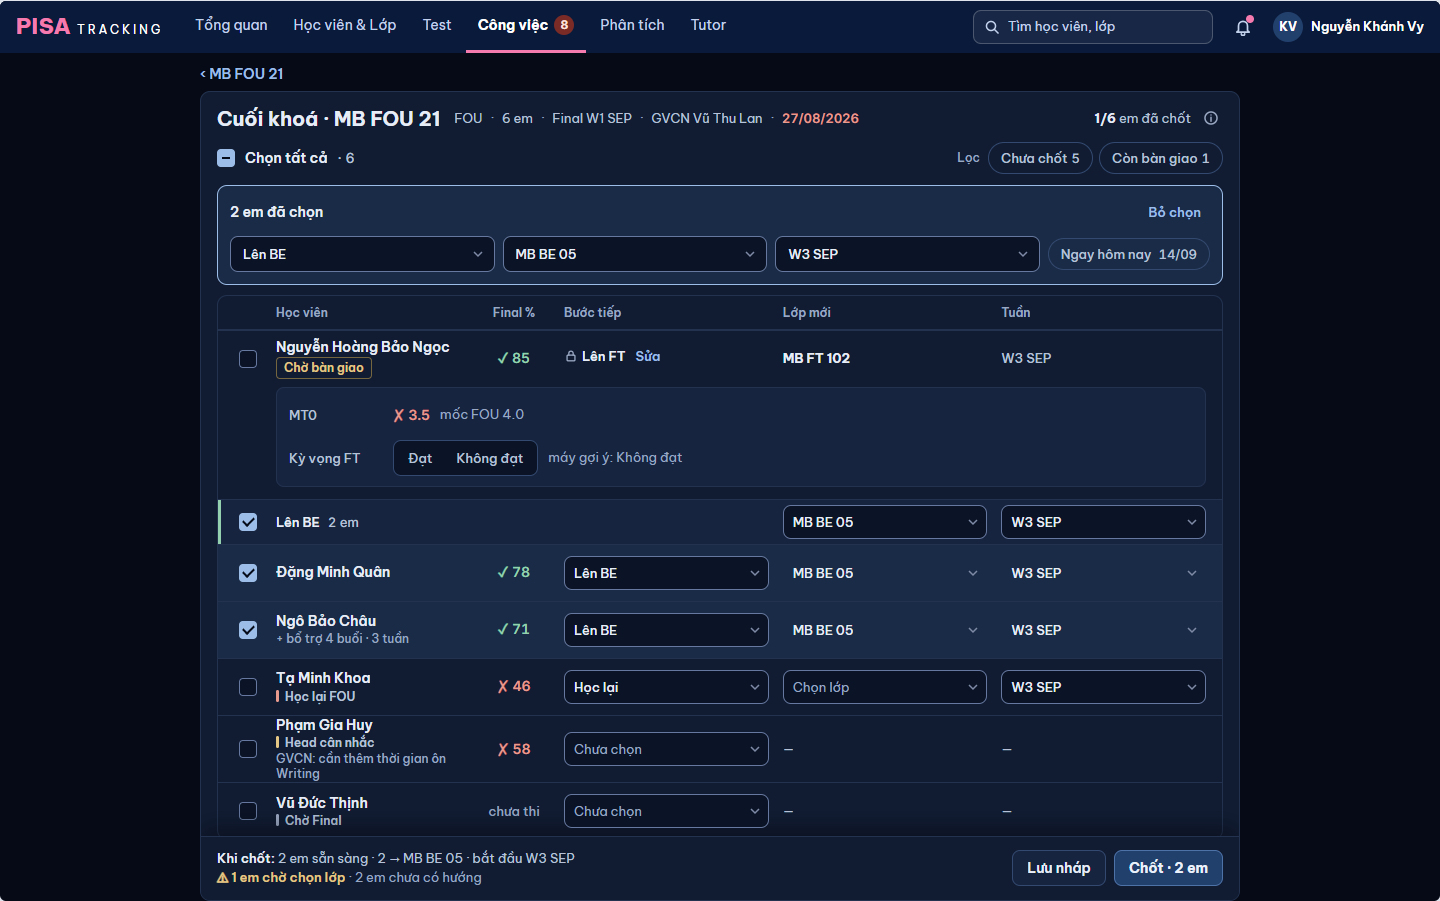
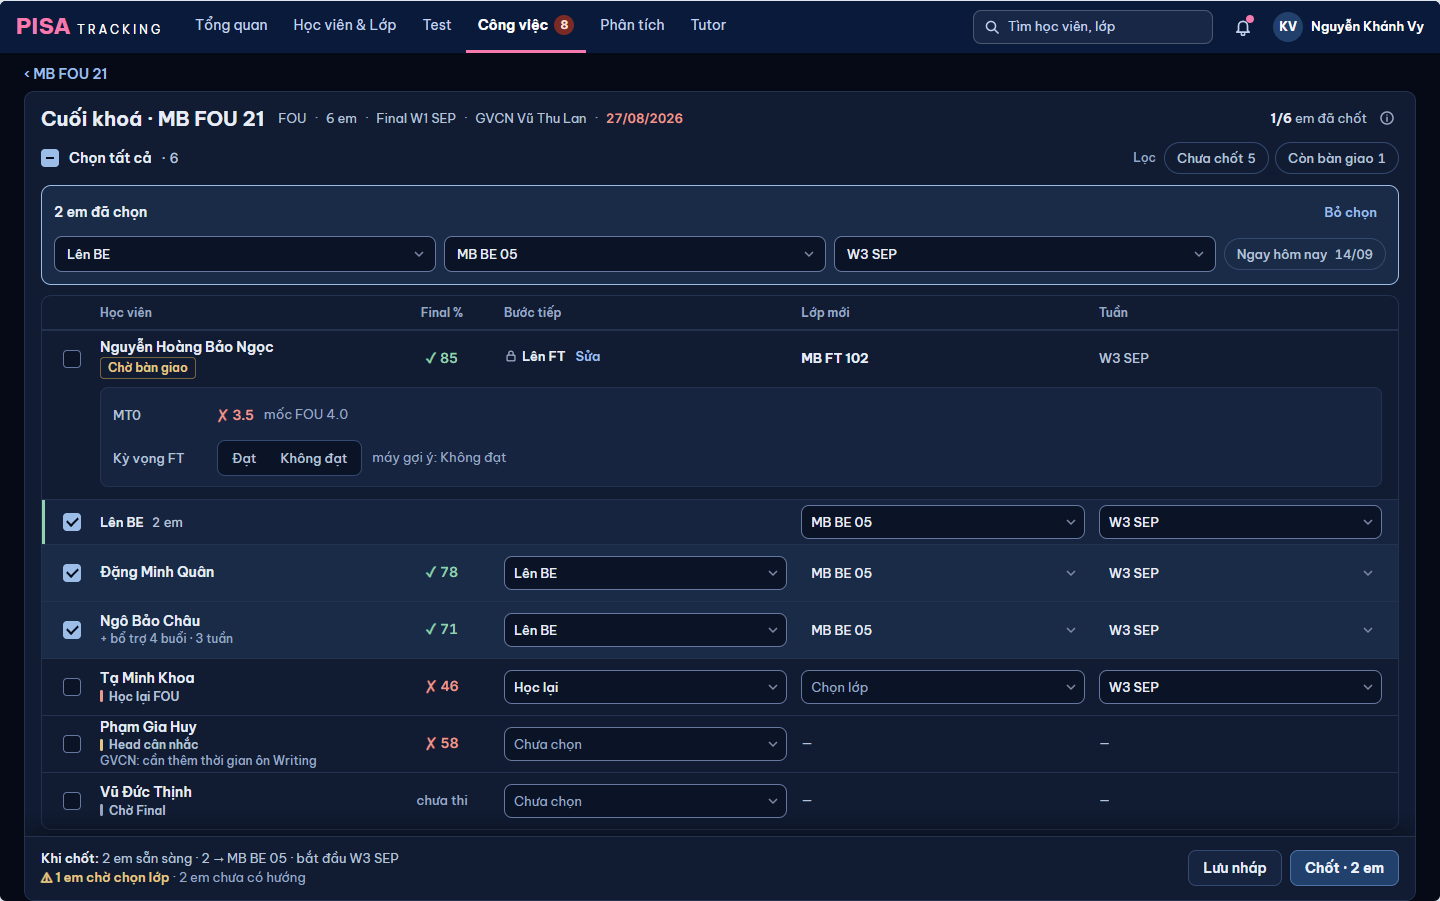
mockup v25: trang Cuối khoá khung rộng hết, chia 5 cột cho hết bề ngang

diff --git a/thiet-ke/v25/chot-lo-trinh-panel.html b/thiet-ke/v25/chot-lo-trinh-panel.html
@@ -77,7 +77,7 @@
 .pan { --cot:6px 28px minmax(176px,1fr) 68px repeat(3,112px) 6px; --kc:8px; }
 .pan .c-fin { grid-column:4; } .pan .c-bt { grid-column:5; } .pan .c-lop { grid-column:6; } .pan .c-tuan { grid-column:7; }
 .pan .c-bl { grid-column:3 / 6; } .pan .c-dt { grid-column:3 / 8; }
-.pan.wide { --cot:2px 28px 188px 72px repeat(3,minmax(120px,1fr)) 2px; --kc:14px; }
+.pan.wide { --cot:2px 28px minmax(260px,280px) 96px repeat(3,minmax(120px,1fr)) 2px; --kc:14px; }
 .ck-lg .c-fin, .ck-lg .c-mt0, .ck-lg .c-kv { justify-self:center; text-align:center; }
 .ck-lg .c-bt, .ck-lg .c-lop, .ck-lg .c-tuan { min-width:0; position:relative; }
 .nm { font:600 var(--c14)/1.3 var(--phong); color:var(--text); white-space:nowrap; }
@@ -239,7 +239,7 @@
 .tg-bar .loc .lb { color:var(--text-faint); font-size:var(--c12); }
 .tg-chan { flex:none; display:flex; align-items:center; gap:16px; padding:10px 16px; min-height:64px; border-top:1px solid var(--line); background:var(--surface); box-shadow:0 -8px 24px var(--bong); }
 .tg-chan .phai { margin-left:auto; display:flex; gap:8px; }
-.tg-wrap { width:100%; max-width:1040px; margin:0 auto; flex:1; min-height:0; display:flex; flex-direction:column; }
+.tg-wrap { width:100%; flex:1; min-height:0; display:flex; flex-direction:column; }
 .tg-than { padding:0 16px 16px; display:grid; gap:10px; align-content:start; flex:1; min-height:0; overflow:hidden; }
 .giu { display:block; padding:8px 12px; border:1px solid var(--line); border-radius:8px; font-size:var(--c13); line-height:1.45; color:var(--text-dim); }
 .giu b { color:var(--text); font-weight:600; }
@@ -287,7 +287,7 @@
     <p class="ghi">Chip "Chờ bàn giao" và "+ Mở lớp mới…" thay nội dung khe 720 (đã có mẫu: Bàn giao mở thay panel Lộ trình ở Tổng quan, nút "‹ Lộ trình"). Đầu: ‹ Quay lại · tên màn; dải "đang giữ nguyên" nói rõ phần đang sửa ở Chốt lộ trình còn đó. Mở lớp xong → quay về Chốt lộ trình, lớp điền sẵn.</p>
     <div class="hang-khung" data-khu="C"></div></section>
   <section class="khu" id="b"><h2>B · Trang Cuối khoá (giữ cho lối vào từ hồ sơ lớp / Tổng quan) — cột cân lại</h2>
-    <p class="ghi">Cùng bảng, cùng thao tác; chỉ chia lại cột theo NH9: tên 2 phần · Final, MT0, Kỳ vọng FT mỗi cột 1 phần, căn giữa · Bước tiếp, Lớp, Tuần mỗi ô 1,5 phần, Tuần sát lề phải. Hết cột tên rộng nuốt cả bề ngang.</p>
+    <p class="ghi">Cùng bảng với panel (MT0 + Kỳ vọng FT gập vào hộp dưới dòng), khung rộng hết như các trang khác: tên 260–280 · Final 96 căn giữa · ba ô nhập chia đều phần còn lại · ô cuối sát lề 16.</p>
     <div class="hang-khung" data-khu="B"></div></section>
 </div>
 <script>

diff --git a/thiet-ke/v25/chot-lo-trinh-panel-ghi-chu.md b/thiet-ke/v25/chot-lo-trinh-panel-ghi-chu.md
@@ -29,7 +29,7 @@ Chưa có code. Chờ chủ SP duyệt (CLAUDE.md: màn / luồng đổi phải 
 | C1 · 1440 | Bàn giao **thay trong khe 720** (chip Chờ bàn giao của Ngọc): ‹ Quay lại, dải "đang giữ nguyên", phiếu tự điền + mỗi môn một câu + Nhận xét chung → Xác nhận bàn giao |
 | C2 · 1440 | Mở lớp mới **thay trong khe 720** ("+ Mở lớp mới…"): chương trình · chi nhánh · số lớp · tuần khai giảng · phân công → Mở lớp, lớp điền sẵn vào ô Lớp của 2 em |
 | C3 · C4 · 375 | Hai màn trên toàn màn |
-| B1–B3 | Trang Cuối khoá **cùng bảng với panel** (MT0 + Kỳ vọng FT gập vào hộp dưới dòng), khung tối đa 1100 px canh giữa: 1440 · 1280 · 375 |
+| B1–B3 | Trang Cuối khoá **cùng bảng với panel** (MT0 + Kỳ vọng FT gập vào hộp dưới dòng), khung rộng hết: 1440 · 1280 · 375 |
 
 ## 3. Panel: thiết kế
 
@@ -47,18 +47,17 @@ Chưa có code. Chờ chủ SP duyệt (CLAUDE.md: màn / luồng đổi phải 
 
 ## 4. Trang Cuối khoá: cùng bảng với panel, cân cột (B)
 
-PTA 25/11: gập MT0 + Kỳ vọng FT vào hộp dưới dòng như panel, bỏ hai cột gần như trống. Trang và panel dùng MỘT lưới (cùng subgrid, cùng hộp dưới dòng, cùng thanh công cụ + thanh Áp); trang chỉ rộng hơn. Bảng chỉ còn 5 cột nên **thu khung** (NH9 "bảng ít cột thì thu khung bảng"): khung trang tối đa 1100 px, canh giữa.
+PTA 25/11: gập MT0 + Kỳ vọng FT vào hộp dưới dòng như panel, bỏ hai cột gần như trống; **khung trang rộng hết như các trang khác** (không thu khung — chủ SP đã chê "dồn cột rồi thừa khoảng trống"). Trang và panel dùng MỘT lưới (cùng subgrid, hộp dưới dòng, thanh công cụ + thanh Áp); trang chỉ rộng hơn, nên chia 5 cột cho hết bề ngang.
 
 | | Trước (`CuoiKhoaLop.tsx` `LUOI`) | Sau |
 |---|---|---|
-| Cột | 28 · tên `minmax(260,1fr)` · 92 · 92 · 92 · 148 · 148 · 148 (8 cột, MT0 + Kỳ vọng 5/6 ô "—") | 28 · tên · Final % · Bước tiếp · Lớp · Tuần (5 cột) |
-| Tên ở 1440 (thẻ 1392) | ≈ 514 px, nuốt chỗ thừa | **210 px** (chữ dài nhất ≈ 174: thừa 36) |
-| Final | 92 | 88 (nội dung 52; số căn giữa) |
-| Ba ô nhập | 148, dính trái | **212 bằng nhau** (máy đo) |
-| Ô cuối | sát lề 16 | sát lề 16 (đo 17 gồm viền) |
-| 1280 | tên ≈ 354 | như 1440 (khung 1100 canh giữa; thẻ 1232 không còn rộng hơn) |
+| Cột | 28 · tên `minmax(260,1fr)` · 92 · 92 · 92 · 148 · 148 · 148 (8 cột, MT0 + Kỳ vọng 5/6 ô "—") | 28 · tên `minmax(260,280)` · Final 96 · Bước tiếp · Lớp · Tuần (5 cột) |
+| Tên ở 1440 (thẻ 1392) | ≈ 514 px, nuốt chỗ thừa | **280 px** (chỗ thừa đi vào hộp dưới dòng và dòng phụ: nhãn nhóm, nhận xét GVCN, chip bàn giao) |
+| Final | 92, dính trái | 96, số căn giữa |
+| Ba ô nhập | 148 | chia đều phần còn lại (số đo ở dưới) |
+| Ô cuối | sát lề 16 | sát lề 16 |
 
-Số đo (Playwright, cùng phép đo như panel): track 2 · 28 · 210 · 88 · 212 · 212 · 212 · 2; **không cột nào thừa > 40 px** so với nội dung; tâm cột Final lệch 0 px giữa các dòng. 375: thẻ như panel.
+Số đo (Playwright, cùng phép đo như panel): **1440** track 2 · 28 · 280 · 96 · **283,3 × 3** · 2; **1280** track 2 · 28 · 280 · 96 · **230 × 3** · 2; ba ô nhập bằng nhau ở cả hai bề rộng, tâm cột Final lệch 0 px giữa các dòng, ô cuối cách mép 16 px (đo 17 gồm viền); máy dò chữ tràn / lòi khung 0 lỗi. Tên 280 rộng hơn chữ dài nhất (≈ 174) theo chỉ định PTA (260–300): phần thừa nằm trong ô tên có nhãn nhóm, nhận xét GVCN, chip bàn giao. 375: thẻ như panel.
 
 ## 5. Bỏ / gộp — và vì sao
 
@@ -104,7 +103,7 @@ Không bỏ thao tác nào. Mọi thao tác TRƯỚC → SAU:
 - **Hoàn tác, không hộp hỏi** (theo code, bỏ N22 ③ cũ) — ghi ở mục 3.
 - Panel **chỉ cho QL**; vai khác (GVCN nhận xét, vai chỉ đọc) dùng trang.
 - ⋯ có "Mở ở trang riêng ›" + "Gia hạn".
-- Trang Cuối khoá gập MT0 + Kỳ vọng FT như panel, bỏ hai cột trống (mục 4).
+- Trang Cuối khoá gập MT0 + Kỳ vọng FT như panel, bỏ hai cột trống, **khung rộng hết** (không thu 1040 — PTA 25/11, mục 4).
 
 Còn mở:
 
@@ -112,12 +111,11 @@ Còn mở:
 - **[XM6] Nhóm "Chờ Final"** chốt trước Final được (N22), mockup hiện nhãn "Chờ Final" nhỏ dưới tên, không dải — giữ luật 11/11.
 - **[XM7]** Tên em, nhãn, hạn trong mockup là minh hoạ; khi code lấy đúng trường đang có.
 - **[XM9] A5:** mẫu số giữ "3/6 đã chốt" (2 em chuyển ngay + Ngọc); nếu máy chủ chỉ đếm em còn ở lớp thì thành "1/4".
-- **[XM10] Khung trang 1100 px canh giữa** ở 1440 / 1280 (hai bên trống ~ 170 / 70 px) — hệ quả của "bảng ít cột thì thu khung". Muốn trang rộng hết khung thì ô nhập và cột tên sẽ lại giãn.
 - **[XM11] C1 / C2 là bản rút gọn** của Bàn giao (`BanGiaoPanel`, 3 dạng theo người mở) và Mở lớp (`ClassCreatePanel`): chỉ vẽ khuôn thay-trong-khe và nút quay lại; ruột từng màn giữ nguyên như web.
 
 ## 7. Skill đã chạy
 
-- `impeccable`: `context` → `shape` (khung dưới) → `critique` (một lượt rà độc lập bằng ảnh, không nhận kết luận của người vẽ): **panel 29/40, trang 26/40, không P0**; P1 đã sửa: nhóm Lên BE lẫn em đã chốt · ba tên cho "Ngay hôm nay" · "sẵn sàng" tính khác nhau giữa B1 / B2 · chip lọc mất ở 375 · vùng bấm 375 · Kỳ vọng FT lặp ba chỗ ở trang · P2 rẻ: chip lọc không sáng khi chưa lọc, ✓ ở chip đang chọn, em chưa hướng ghi "—", nhận xét GVCN 2 dòng, A6 bớt lặp "6/6" + lối "Xem lộ trình đã chốt ›", nút Ngay hôm nay đủ tương phản. Sau ba lượt (có PTA 25/11 gập cột trang + hai màn C): lượt 2 panel 30 · màn C 28 · trang 28, P1 đã sửa (vùng bấm 375 đo ≥ 44, số đếm lỗi A4 một kiểu, dải "đang giữ nguyên" ở 375, cột tên trang). **Lượt 3 (cuối): panel 29 · màn C 30 · trang 29, 0 P0 / P1** — chưa chạm 35; P2 còn lại: hộp MT0 / Kỳ vọng rộng hơn nội dung ở trang, tấm Áp 375 chiếm ~45 % màn, "Chọn tất cả" vẫn chọn em đã chốt (cố ý: em Lên FT còn Kỳ vọng chờ), thuật ngữ "Reset bậc vi phạm" / KCK / "Điền thay" lấy đúng chữ web đang dùng.
+- `impeccable`: `context` → `shape` (khung dưới) → `critique` (một lượt rà độc lập bằng ảnh, không nhận kết luận của người vẽ): **panel 29/40, trang 26/40, không P0**; P1 đã sửa: nhóm Lên BE lẫn em đã chốt · ba tên cho "Ngay hôm nay" · "sẵn sàng" tính khác nhau giữa B1 / B2 · chip lọc mất ở 375 · vùng bấm 375 · Kỳ vọng FT lặp ba chỗ ở trang · P2 rẻ: chip lọc không sáng khi chưa lọc, ✓ ở chip đang chọn, em chưa hướng ghi "—", nhận xét GVCN 2 dòng, A6 bớt lặp "6/6" + lối "Xem lộ trình đã chốt ›", nút Ngay hôm nay đủ tương phản. Sau ba lượt (có PTA 25/11 gập cột trang + hai màn C): lượt 2 panel 30 · màn C 28 · trang 28, P1 đã sửa (vùng bấm 375 đo ≥ 44, số đếm lỗi A4 một kiểu, dải "đang giữ nguyên" ở 375). Lượt 3 chấm trên bản khung trang 1040 — sau đó PTA đổi sang khung rộng hết, chưa chấm lại. **Lượt 3 (cuối): panel 29 · màn C 30 · trang 29, 0 P0 / P1** — chưa chạm 35; P2 còn lại: hộp MT0 / Kỳ vọng rộng hơn nội dung ở trang, tấm Áp 375 chiếm ~45 % màn, "Chọn tất cả" vẫn chọn em đã chốt (cố ý: em Lên FT còn Kỳ vọng chờ), thuật ngữ "Reset bậc vi phạm" / KCK / "Điền thay" lấy đúng chữ web đang dùng.
 - `ui-ux-pro-max` (domain ux): hành động chính một chỗ (Chốt), lỗi cạnh ô sai, vùng bấm 44 ở 375, trạng thái không chỉ màu (✓ ✗ ⚠ + chữ).
 - Chuẩn nội bộ: NH9 luật cột, NH10 khung 720, N17 / N20 / N21 / N22 / N25 / N36 / N71, v24 `cong-viec-gon-ghi-chu.md`.
 
